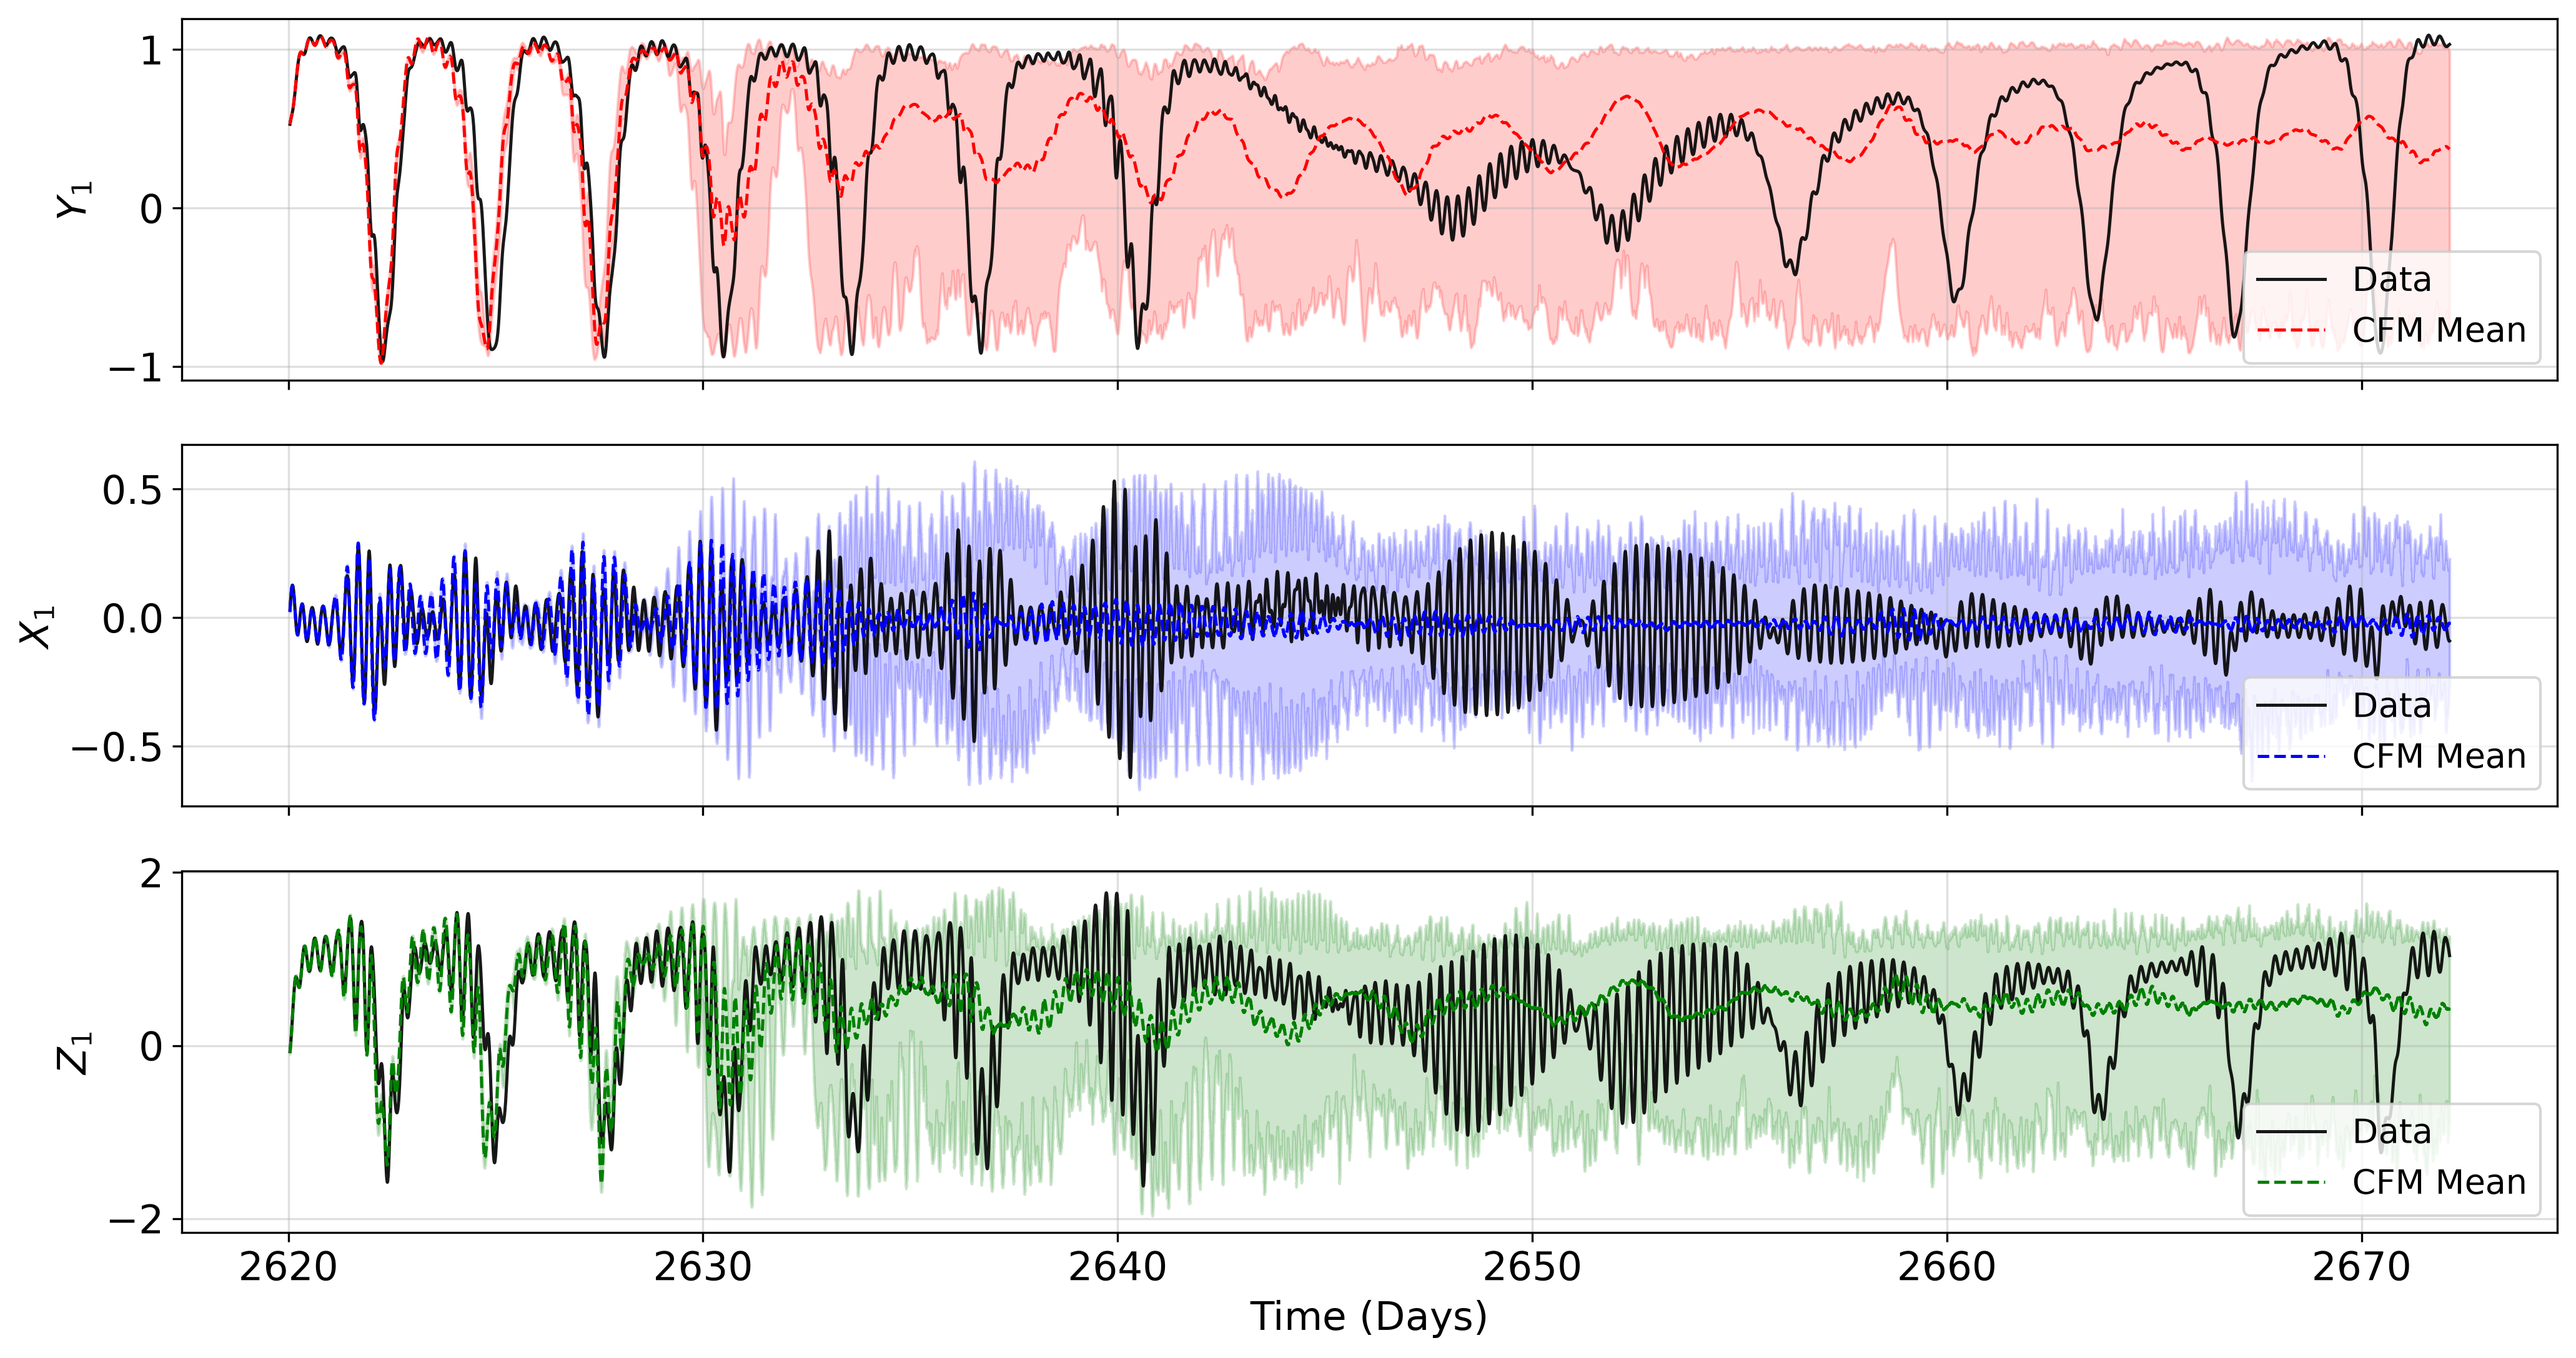
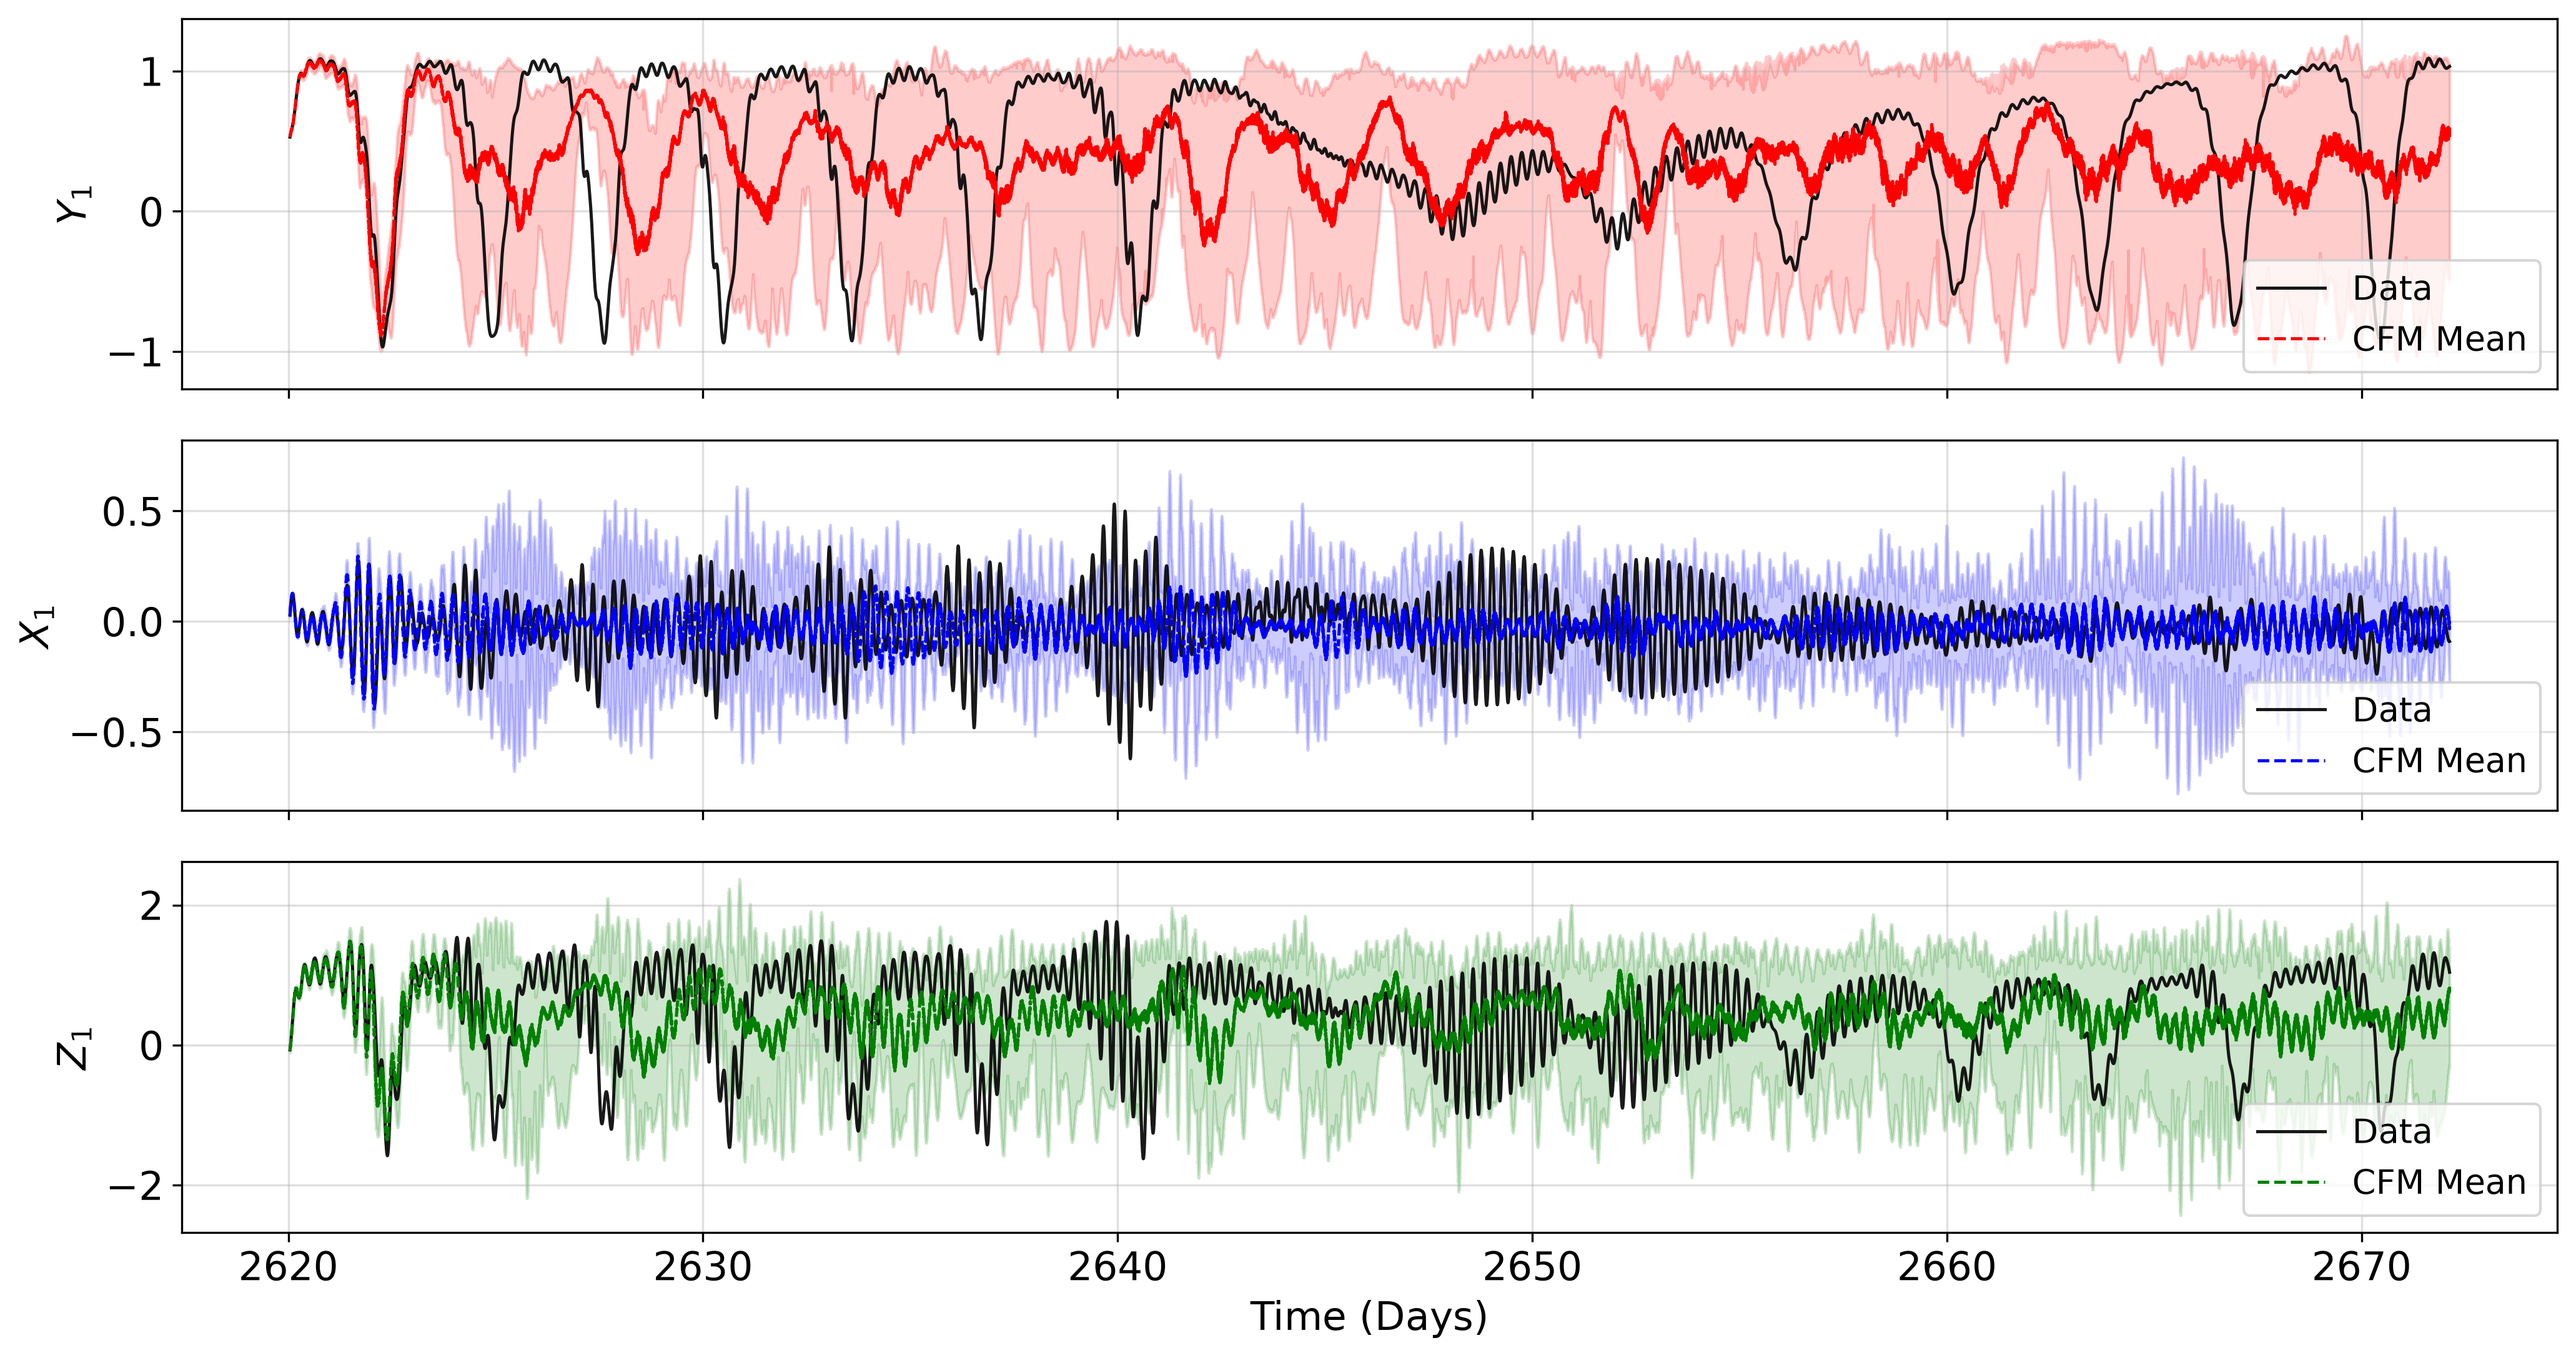
fix: tail_sampling with fixed confidence bands

diff --git a/media/naive_sampling/config.py b/media/naive_sampling/config.py
@@ -1,0 +1,26 @@
+import torch
+
+# GENERAL PARAMETERS
+data_path = "data/NN_training_data.mat"
+device = torch.device("cuda" if torch.cuda.is_available() else "cpu")
+
+# DATALOAD PARAMETERS
+idx_0 = 100000
+N_train = 5000000
+N_test = 100000
+
+# CFM PARAMETERS
+K = 100           # Total memory points
+stride = 50       # Memory stride
+cfm_steps = 8    # CFM Flow inference steps
+hidden_dim = 256   # CFM Hidden layer dimension
+
+# TRAINING PARAMETERS
+lr=1e-3
+epochs = 20
+batch_size = 1024
+
+# A POSTERIORI SIMULATION PARAMETERS
+dt = 4.2e-3 # 4.2e-3 MTU = 45 sec
+N_ens = 50
+sigma0 = 1e-3
